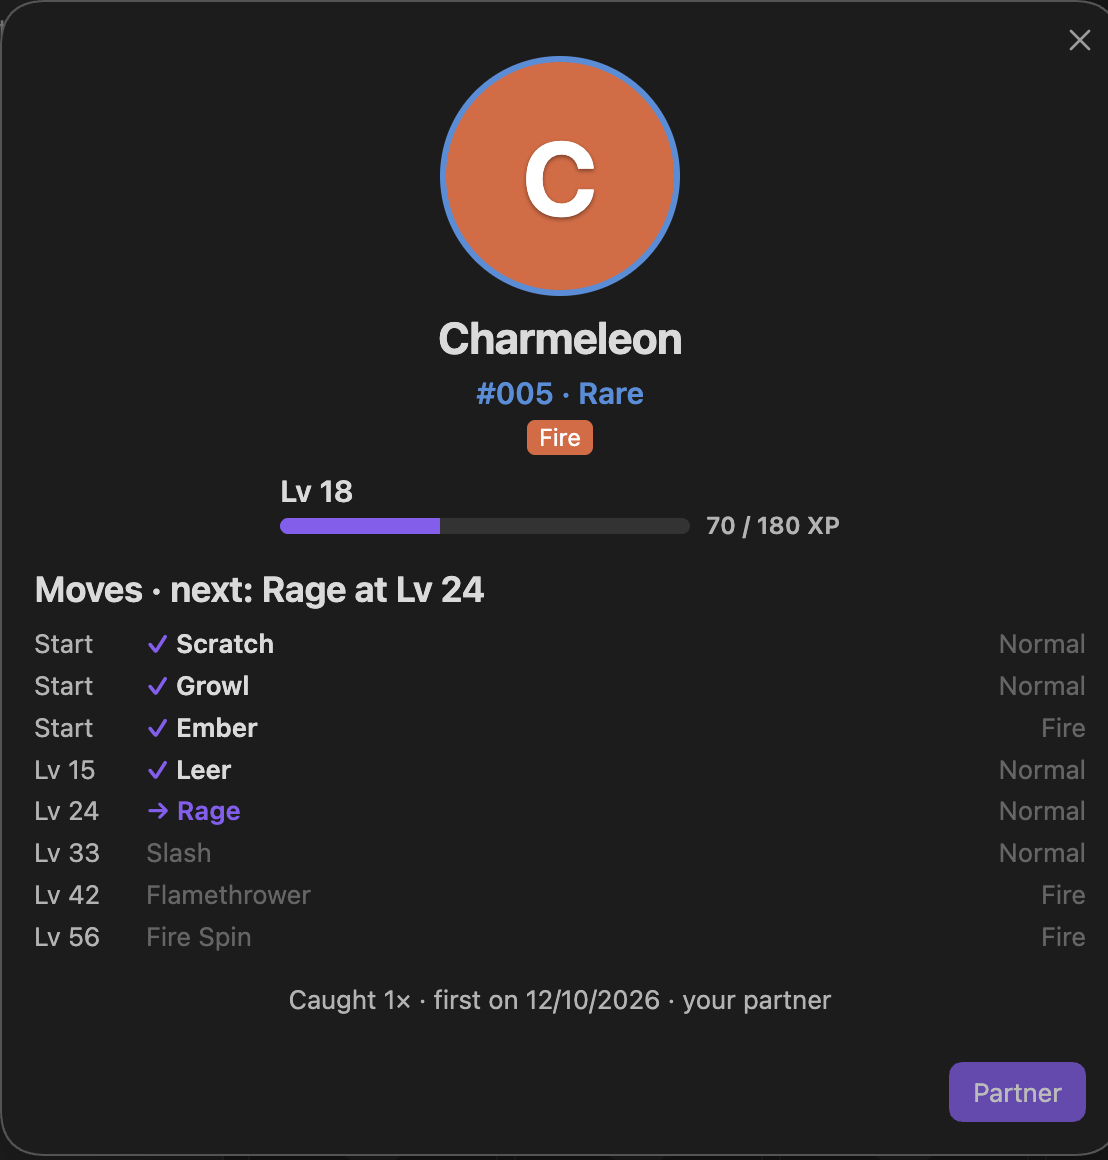
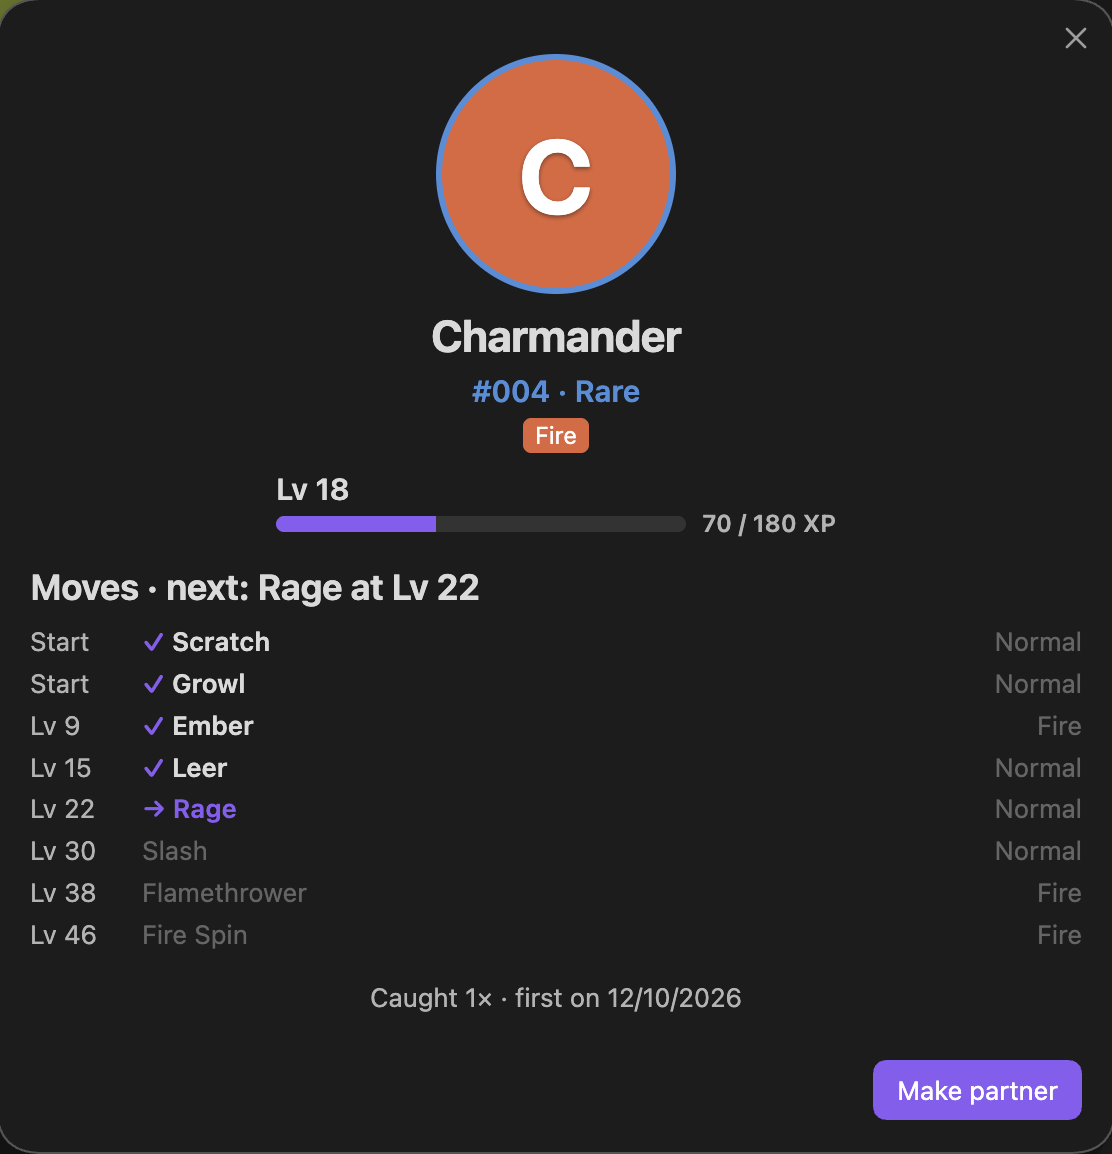
docs: user guide screenshots for install, reward, Pokédex view, evolution, Starter pack
- Fills the 4 placeholders with Sheikh's badge-mode screenshots
  (2026-10-13): install, reward window, Pokédex view, Evolution scene
- Details screenshot swapped to Charmander (shows Make partner)
- §8 Starter pack: unused and part-used screenshots
- §3 adds the stones row; §6 says forms show as badge letters without
  sprites; "Game Boy evolution scene" renamed "Evolution scene" in the
  guide (Sheikh)
- Metadata (EXIF/XMP/iDOT) stripped; image data unchanged

Docs only: no version bump, no release.

diff --git a/docs/USER-GUIDE.md b/docs/USER-GUIDE.md
@@ -21,7 +21,7 @@ You need Obsidian desktop with [TaskNotes](https://github.com/callumalpass/taskn
 
 If either required plugin is missing, a notice tells you, and closes won't earn Pokémon until it's enabled.
 
-<!-- screenshot needed: Settings → Community plugins, Sheiko Pokédex enabled, showing the current version -->
+![Settings → Community plugins with Sheiko Pokédex installed and enabled](images/install-plugins.png)
 
 ## 2. Close a task, catch a Pokémon
 
@@ -40,7 +40,7 @@ The number of closes needed is hidden and changes after every catch (somewhere f
 
 Prefer something quieter? Turn off **Show reward window** in the plugin's settings to get a short notice instead.
 
-<!-- screenshot needed: the reward window after a catch, current version (score out of 8, XP line) -->
+![The reward window: Jolteon caught, the batch's closes, average and score out of 8, and the partner's XP](images/reward-window.png)
 
 ## 3. The Pokédex view
 
@@ -48,17 +48,18 @@ Open it from the ribbon icon (**Open Pokédex**), from the **Open Pokédex** com
 
 - **Partner card** at the top: your partner with its level and XP bar, its current moves, its next move and what it evolves into. **Details** opens its full page; **Change partner** picks another.
 - **Stats:** species caught out of 151, total catches, catches and closes today, progress toward the next catch, and how many of each rarity you've caught.
+- **Stones:** how many of each of the 6 stones you hold (Fire, Water, Thunder, Leaf, Moon, Trade). Stones you have none of are dimmed.
 - **The grid:** all 151 Gen 1 Pokémon. The ones you've caught show their name, level, types and the 4 moves they know. The rest show as **???**.
 
 You won't have a partner at first. Choose one with **Choose partner** in the view, the **Choose partner** command, or **Make partner** on any Pokémon you've caught. Only your partner earns XP.
 
-<!-- screenshot needed: the Pokédex view in badge mode, partner card, stats row and part of the grid -->
+![The Pokédex view: the partner card, the stats and stones rows, and the start of the grid](images/pokedex-view.png)
 
 ## 4. A Pokémon's details
 
 Click any Pokémon you've caught to open its details.
 
-![A Pokémon's details: Charmeleon, level 18, with its XP bar and its Red/Blue level-up moves](images/detail-view.png)
+![A Pokémon's details: Charmander, level 18, with its XP bar, its Red/Blue level-up moves and Make partner](images/detail-view.png)
 
 - Its number, rarity, types, level and XP.
 - **Moves:** the full Red/Blue list with the level each is learned at. ✓ marks the 4 it knows now, faded moves are ones it has outgrown, and → marks the next one.
@@ -80,20 +81,20 @@ Your partner sits in Obsidian's status bar, for example "Charmeleon Lv 18".
 
 ## 6. Evolution
 
-**By level.** When your partner reaches its evolution level, the **Game Boy evolution scene** starts straight away: "What? CHARMELEON is evolving!" on a green screen, with the old and new forms flickering in Red/Blue's own timing.
+**By level.** When your partner reaches its evolution level, the **Evolution scene** starts straight away: "What? CHARMELEON is evolving!" on a green screen, with the old and new forms flickering in Red/Blue's own timing. Without sprites, each form is shown as its badge letter.
 
 - To stop it, press **B**, press **Stop**, or close the window. You'll be asked again at the next level, or any time with **Evolve now** in the status-bar menu.
 - If you let it finish, the evolved form takes over as your partner, keeping its level.
 - **Both forms stay caught** in your Pokédex.
 - **Calm evolution scene** in the settings replaces the flicker with a slow fade. It's also used automatically when your system asks for reduced motion.
 
-<!-- screenshot needed: the Game Boy evolution scene in badge mode -->
+![The Evolution scene in badge mode: CATERPIE evolved into METAPOD](images/evolution-scene.png)
 
 **By stone.** Some Pokémon evolve with a stone instead. Stones are found now and then with a catch. To use one, open the Pokémon's details and press the stone's button. You'll be asked to confirm first:
 
 ![Using a Thunder Stone on Eevee: confirm before it evolves](images/stone-evolution.png)
 
-Press **Evolve** and the same Game Boy scene plays. As in the game, a stone evolution can't be stopped once it starts. The stone is used up, and both forms stay in your Pokédex.
+Press **Evolve** and the same Evolution scene plays. As in the game, a stone evolution can't be stopped once it starts. The stone is used up, and both forms stay in your Pokédex.
 
 ## 7. Sprites (optional)
 
@@ -121,4 +122,8 @@ Want a head start? Every install comes with a one-time **Starter pack**. Find it
 
 Each part asks **"This can only be used once. Use it now?"** before anything happens. Once used, it's gone for good on this install: updates and reloads don't refill it. The settings show what's left, and a used-up part's command disappears.
 
-<!-- screenshot needed: Settings → Starter pack, in badge mode -->
+![The Starter pack in settings, unused: stones, 1 Pokémon and XP 3 of 3 left](images/starter-pack-full.png)
+
+After using the stones, the Pokémon and one XP gift, the used parts show **Used** and the XP shows 2 of 3:
+
+![The Starter pack after some use: stones and Pokémon used, XP 2 of 3 left](images/starter-pack-used.png)
